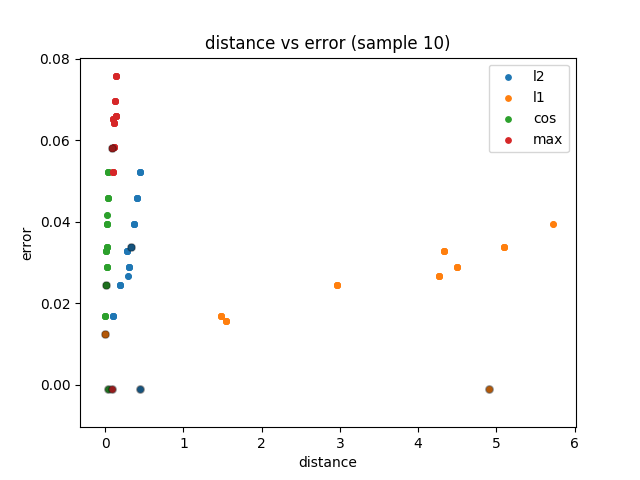
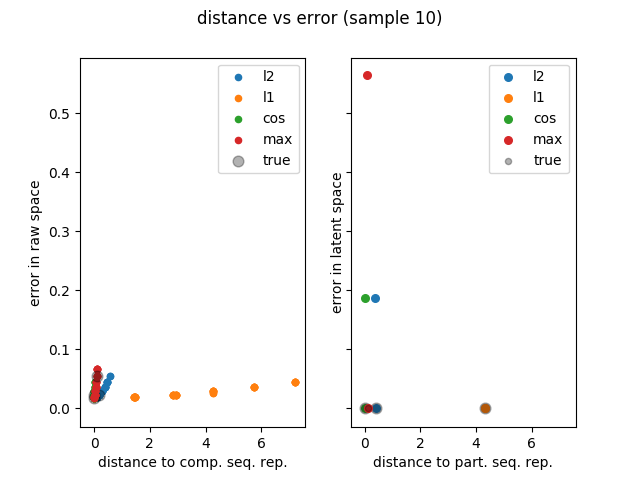
added

diff --git a/RNN/utils/association_evaluation.py b/RNN/utils/association_evaluation.py
@@ -491,7 +491,7 @@ def plot_best_distance_function(model, data, data_iterator, n=50):
 	emb = metrics.get_label_embedding(model, data_iterator, subspaces=model.hierarchies)
 	# new_e = np.zeros((N,n,model.latent_dim))
 	for j in tqdm(range(n)):
-		f, axarr = plt.subplots(1, 2, sharex=True, sharey=True)
+		#f, axarr = plt.subplots(1, 2, sharex=True, sharey=True)
 
 		errors = np.zeros(n)
 		dists = np.zeros(n)
@@ -513,32 +513,35 @@ def plot_best_distance_function(model, data, data_iterator, n=50):
 			for k in range(n):
 				errors[k] = metrics.__pose_seq_error(preds[k,:,:-model.label_dim],data[idx[j],:,:-model.label_dim])
 				dists[k] = metrics.__distance__(ls[w_i[k]], z_true, mode=i)
-			axarr[0].scatter(dists, errors, label=dist_name, s=20)
+			plt.scatter(dists, errors, label=dist_name, s=20)
 			if i == N-1:
-				axarr[0].scatter(dists[:1], errors[:1], c='black', alpha='0.3', s=60, label='true')
+				plt.scatter(dists[:1], errors[:1], c='black', alpha='0.3', s=60, label='true')
 			else:
-				axarr[0].scatter(dists[:1], errors[:1], c='black', alpha='0.3', s=60)
+				plt.scatter(dists[:1], errors[:1], c='black', alpha='0.3', s=60)
 
-		axarr[0].legend()
-		axarr[0].set_xlabel('distance to comp. seq. rep.')
-		axarr[0].set_ylabel('error in raw space')
+		plt.legend()
+		plt.xlabel('distance to comp. seq. rep.')
+		plt.ylabel('error in raw space')
+		plt.title('distance vs error in raw space (sample %d)'%(j))
+                plt.savefig('../new_out/__plot_best_distance_function_%d-1.png'%(j))
+                plt.close()
+
 
 		for i in range(N):
 			dist_name = metrics.__dist_name__(i)
 			errors = [metrics.__latent_error(z, z_true) for z in [zs[i], z_true]]
 			dists = [metrics.__distance__(z, z_ref, mode=i) for z in [zs[i], z_true]]
-			axarr[1].scatter([dists], [errors], label=dist_name, s=30)
+			plt.scatter([dists], [errors], label=dist_name, s=30)
 			if i == N-1:
-				axarr[1].scatter(dists[-1:], errors[-1:], c='black', alpha='0.3', s=20, label='true')
+				plt.scatter(dists[-1:], errors[-1:], c='black', alpha='0.3', s=20, label='true')
 			else:
-				axarr[1].scatter(dists[-1:], errors[-1:], c='black', alpha='0.3', s=60)
+				plt.scatter(dists[-1:], errors[-1:], c='black', alpha='0.3', s=60)
 
-		axarr[1].legend()
-		axarr[1].set_xlabel('distance to part. seq. rep.')
-		axarr[1].set_ylabel('error in latent space')
-
-		plt.suptitle('distance vs error (sample %d)'%(j))
-		plt.savefig('../new_out/__plot_best_distance_function_%d.png'%(j))
+		plt.legend()
+		plt.xlabel('distance to part. seq. rep.')
+		plt.ylabel('error in latent space')
+		plt.title('distance vs error in latent space(sample %d)'%(j))
+		plt.savefig('../new_out/__plot_best_distance_function_%d-2.png'%(j))
 		plt.close()
 
 	# error = np.zeros(n)
